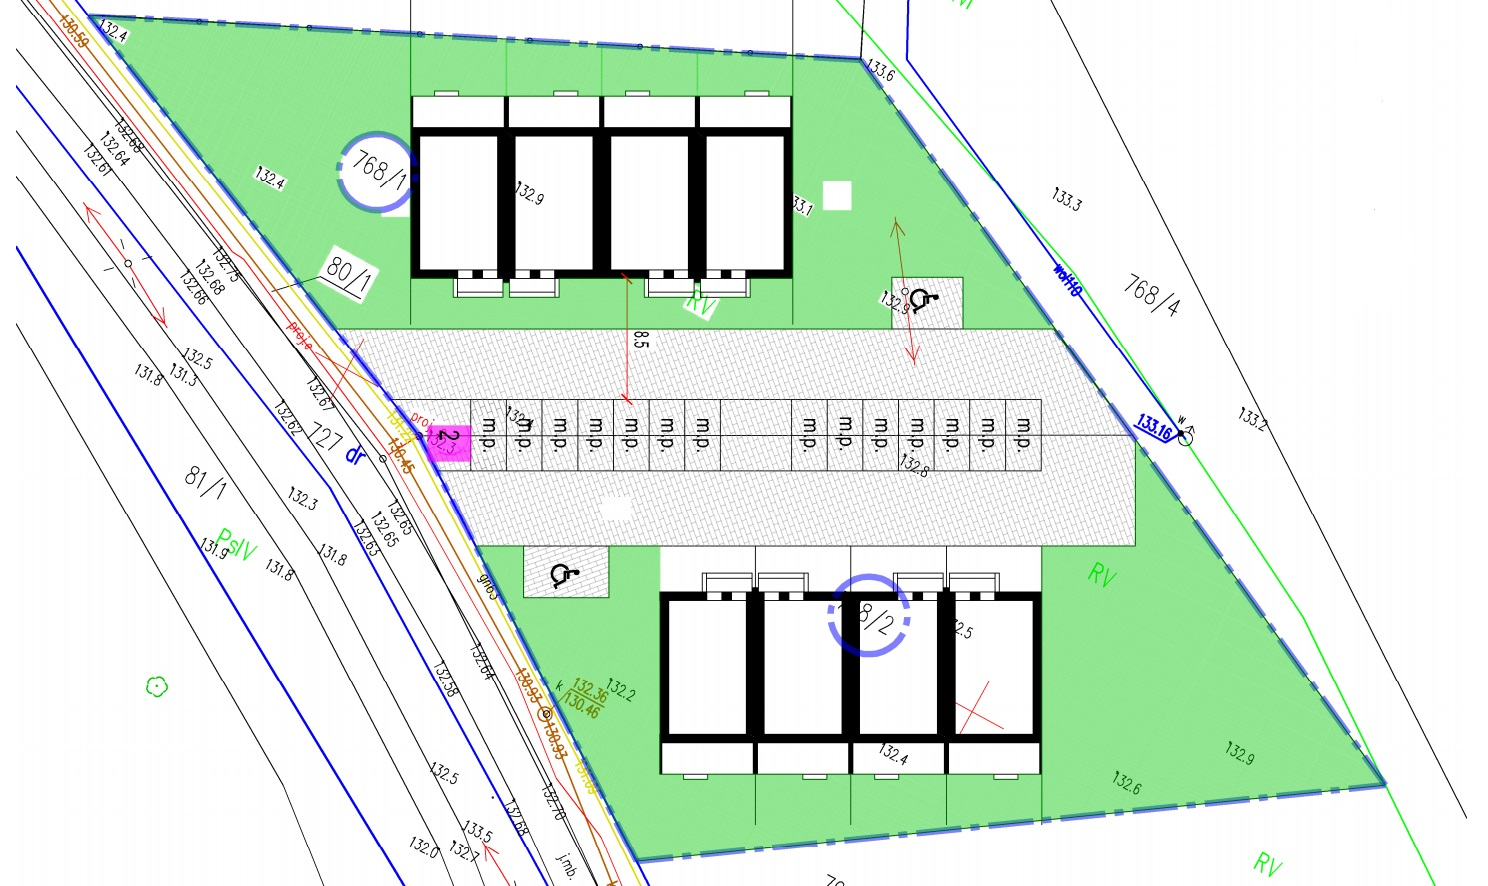
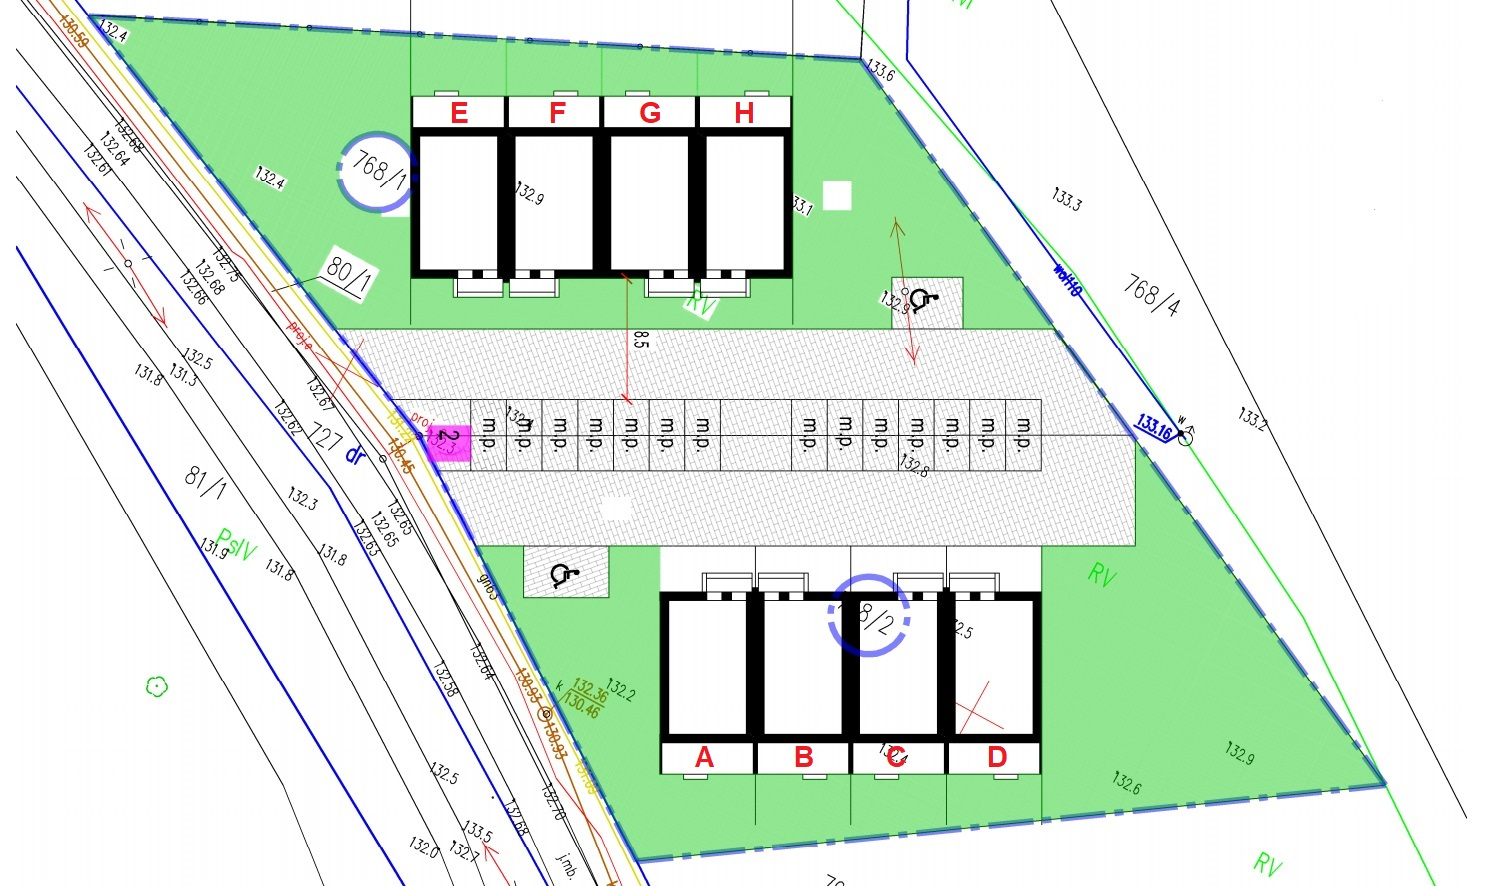
zestawienie

diff --git a/offer-grid.html b/offer-grid.html
@@ -310,18 +310,260 @@
             </div>
           </div>
 		  <div class="row">
-                  <div class="col-sm-12">
-                    <div class="title-box-d section-t4">
-                      <h3 class="title-d">Zagospodarowanie</h3>
-                    </div>
-                  </div>
-                </div>
+            <div class="col-sm-12">
+              <div class="title-box-d section-t4">
+                <h3 class="title-d">Zagospodarowanie</h3>
+              </div>
+            </div>
+          </div>
 		  <div id="property-single-carousel" class="owl-carousel owl-arrow gallery-property">
             <div class="carousel-item-b">
               <img src="img/slide-3.jpg" alt="">
             </div>
           </div>
-        </div>
+      </div>
+    </div>
+  </section>
+  <!--/ Property Single End /-->
+  
+  <!--/ Property Single Star /-->
+  <section class="property-single nav-arrow-b">
+    <div class="container">
+	<hr/> 
+      <div class="row">
+        <div class="col-sm-12">
+		  <div class="row">
+            <div class="col-sm-12">
+              <div class="title-box-d section-t4">
+                <h3 class="title-d">Zestawienie</h3>
+              </div>
+            </div>
+          </div>
+		  <div class="row">
+            <div class="col-sm-12">
+              <table class="table table-striped table-bordered table-sm" cellspacing="0" width="100%">
+				<thead>
+					<tr>
+						<th class="th-sm">Lokalizacja</th>
+						<th class="th-sm">Segment</th>
+						<th class="th-sm">Nr lokalu</th>
+						<th class="th-sm">Pokoje</th>
+						<th class="th-sm">Piętro</th>
+						<th class="th-sm">Powierzchnia mieszkalna</th>
+						<th class="th-sm">Cena</th>
+						<th class="th-sm">Termin oddania</th>
+						<th class="th-sm">Status</th>
+						<th class="th-sm">Rzut</th>
+					</tr>
+				</thead>
+				<tbody>
+					<tr>
+						<td>Leśna</td>
+						<td>A</td>
+						<td>1A</td>
+						<td>4</td>
+						<td>Parter</td>
+						<td>61,96 m<sup>2</sup></td>
+						<td>213 762 zł</td>
+						<td>III KW 2021</td>
+						<td>Rezerwacja</td>
+						<td><a href="img/parter-9.png">Podgląd</a></td>
+					</tr>
+					<tr>
+						<td>Leśna</td>
+						<td>A</td>
+						<td>2A</td>
+						<td>4</td>
+						<td>Piętro</td>
+						<td>66,28 m<sup>2</sup></td>
+						<td>228 666 zł</td>
+						<td>III KW 2021</td>
+						<td>Dostępne</td>
+						<td><a href="img/poddasze-9.png">Podgląd</a></td>
+					</tr>
+					<tr>
+						<td>Leśna</td>
+						<td>B</td>
+						<td>1B</td>
+						<td>4</td>
+						<td>Parter</td>
+						<td>61,96 m<sup>2</sup></td>
+						<td>213 762 zł</td>
+						<td>III KW 2021</td>
+						<td>Dostępne</td>
+						<td><a href="img/parter-9.png">Podgląd</a></td>
+					</tr>
+					<tr>
+						<td>Leśna</td>
+						<td>B</td>
+						<td>2B</td>
+						<td>4</td>
+						<td>Piętro</td>
+						<td>66,28 m<sup>2</sup></td>
+						<td>228 666 zł</td>
+						<td>III KW 2021</td>
+						<td>Dostępne</td>
+						<td><a href="img/poddasze-9.png">Podgląd</a></td>
+					</tr>
+					<tr>
+						<td>Leśna</td>
+						<td>C</td>
+						<td>1C</td>
+						<td>4</td>
+						<td>Parter</td>
+						<td>61,96 m<sup>2</sup></td>
+						<td>213 762 zł</td>
+						<td>III KW 2021</td>
+						<td>Dostępne</td>
+						<td><a href="img/parter-9.png">Podgląd</a></td>
+					</tr>
+					<tr>
+						<td>Leśna</td>
+						<td>C</td>
+						<td>2C</td>
+						<td>4</td>
+						<td>Piętro</td>
+						<td>66,28 m<sup>2</sup></td>
+						<td>228 666 zł</td>
+						<td>III KW 2021</td>
+						<td>Dostępne</td>
+						<td><a href="img/poddasze-9.png">Podgląd</a></td>
+					</tr>
+					<tr>
+						<td>Leśna</td>
+						<td>D</td>
+						<td>1D</td>
+						<td>4</td>
+						<td>Parter</td>
+						<td>61,96 m<sup>2</sup></td>
+						<td>213 762 zł</td>
+						<td>III KW 2021</td>
+						<td>Rezerwacja</td>
+						<td><a href="img/parter-9.png">Podgląd</a></td>
+					</tr>
+					<tr>
+						<td>Leśna</td>
+						<td>D</td>
+						<td>2D</td>
+						<td>4</td>
+						<td>Piętro</td>
+						<td>66,28 m<sup>2</sup></td>
+						<td>228 666 zł</td>
+						<td>III KW 2021</td>
+						<td>Rezerwacja</td>
+						<td><a href="img/poddasze-9.png">Podgląd</a></td>
+					</tr>
+					<tr>
+						<td>Leśna</td>
+						<td>E</td>
+						<td>1E</td>
+						<td>4</td>
+						<td>Parter</td>
+						<td>61,96 m<sup>2</sup></td>
+						<td>213 762 zł</td>
+						<td>III KW 2021</td>
+						<td>Dostępne</td>
+						<td><a href="img/parter-9.png">Podgląd</a></td>
+					</tr>
+					<tr>
+						<td>Leśna</td>
+						<td>E</td>
+						<td>2E</td>
+						<td>4</td>
+						<td>Piętro</td>
+						<td>66,28 m<sup>2</sup></td>
+						<td>228 666 zł</td>
+						<td>III KW 2021</td>
+						<td>Dostępne</td>
+						<td><a href="img/poddasze-9.png">Podgląd</a></td>
+					</tr>
+					<tr>
+						<td>Leśna</td>
+						<td>F</td>
+						<td>1F</td>
+						<td>4</td>
+						<td>Parter</td>
+						<td>61,96 m<sup>2</sup></td>
+						<td>213 762 zł</td>
+						<td>III KW 2021</td>
+						<td>Rezerwacja</td>
+						<td><a href="img/parter-9.png">Podgląd</a></td>
+					</tr>
+					<tr>
+						<td>Leśna</td>
+						<td>F</td>
+						<td>2F</td>
+						<td>4</td>
+						<td>Piętro</td>
+						<td>66,28 m<sup>2</sup></td>
+						<td>228 666 zł</td>
+						<td>III KW 2021</td>
+						<td>Dostępne</td>
+						<td><a href="img/poddasze-9.png">Podgląd</a></td>
+					</tr>
+					<tr>
+						<td>Leśna</td>
+						<td>G</td>
+						<td>1G</td>
+						<td>4</td>
+						<td>Parter</td>
+						<td>61,96 m<sup>2</sup></td>
+						<td>213 762 zł</td>
+						<td>III KW 2021</td>
+						<td>Rezerwacja</td>
+						<td><a href="img/parter-9.png">Podgląd</a></td>
+					</tr>
+					<tr>
+						<td>Leśna</td>
+						<td>G</td>
+						<td>2G</td>
+						<td>4</td>
+						<td>Piętro</td>
+						<td>66,28 m<sup>2</sup></td>
+						<td>228 666 zł</td>
+						<td>III KW 2021</td>
+						<td>Dostępne</td>
+						<td><a href="img/poddasze-9.png">Podgląd</a></td>
+					</tr>
+					<tr>
+						<td>Leśna</td>
+						<td>H</td>
+						<td>1H</td>
+						<td>4</td>
+						<td>Parter</td>
+						<td>61,96 m<sup>2</sup></td>
+						<td>213 762 zł</td>
+						<td>III KW 2021</td>
+						<td>Dostępne</td>
+						<td><a href="img/parter-9.png">Podgląd</a></td>
+					</tr>
+					<tr>
+						<td>Leśna</td>
+						<td>H</td>
+						<td>2H</td>
+						<td>4</td>
+						<td>Piętro</td>
+						<td>66,28 m<sup>2</sup></td>
+						<td>228 666 zł</td>
+						<td>III KW 2021</td>
+						<td>Rezerwacja</td>
+						<td><a href="img/poddasze-9.png">Podgląd</a></td>
+					</tr>
+				</tbody>
+				</table>
+            </div>
+          </div>
+		  <div class="row">
+            <div class="col-sm-12">
+				<span>Dodatkowe opłaty:<span>
+				<ul>
+					<li class="color-a">
+					  <span class="color-text-a">Ogródek </span> 45 zł / m<sup>2</sup></li>
+					<li class="color-a">
+					  <span class="color-text-a">Miejsce postojowe </span> 5 000 zł</li>
+				</ul>	
+			</div>
+		  </div>
       </div>
     </div>
   </section>

diff --git a/css/style.css b/css/style.css
@@ -2023,3 +2023,7 @@ footer .credits {
     font-size: 1.3rem;
   }
 }
+
+.table td,th {
+   text-align: center;   
+}
